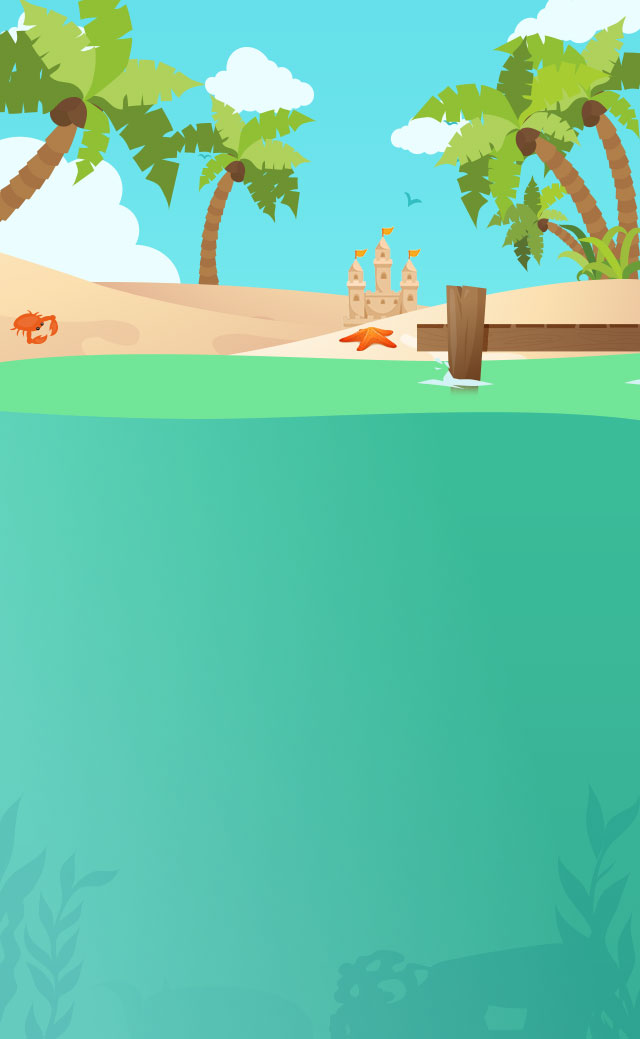
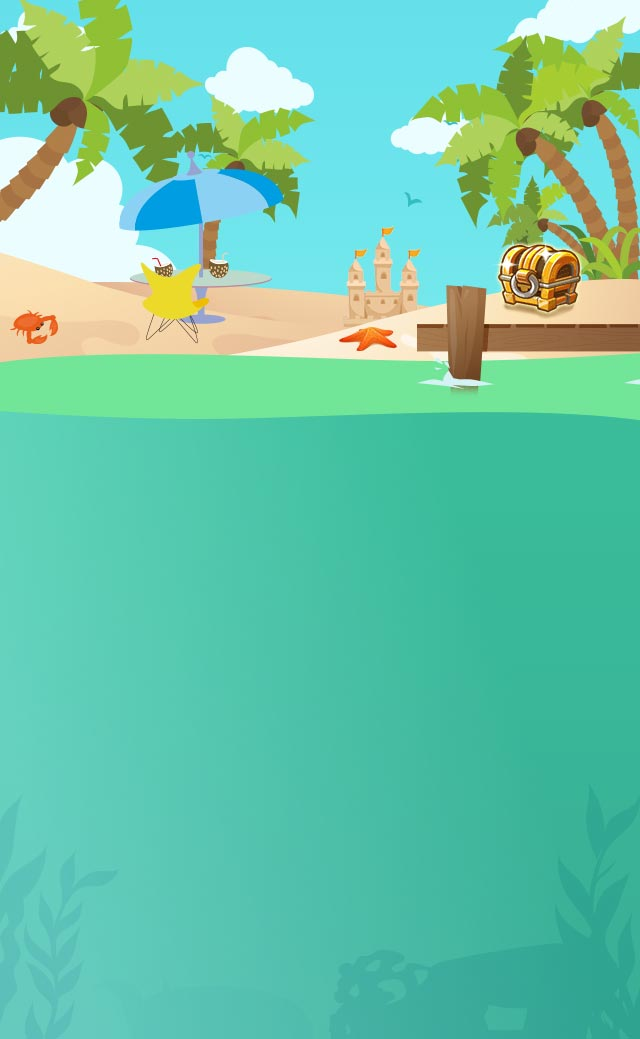
s

diff --git a/js/playState.js b/js/playState.js
@@ -1,0 +1,179 @@
+var Phaser = window.Phaser
+var game = window.game
+
+var textStyle = {
+  font: '20px sans-serif',
+  fill: '#fff'
+}
+
+var playState = {
+  create: function() {
+    this.bg = game.add.image(0, 0, 'bg')
+
+    this.betPop = game.add.group()
+    this.betPopBg = game.add.sprite(53, 650, 'bet_pop')
+    this.betPop1000Coin = game.add.sprite(77, 670, 'bet_1000')
+    this.betPop500Coin = game.add.sprite(77, 715, 'bet_100_200_500')
+    this.betPop200Coin = game.add.sprite(77, 760, 'bet_100_200_500')
+    this.betPop100Coin = game.add.sprite(77, 805, 'bet_100_200_500')
+    this.betPop50Coin = game.add.sprite(77, 845, 'bet_10_50')
+    this.betPop10Coin = game.add.sprite(77, 885, 'bet_10_50')
+
+    this.betPop1000Text = game.add.text(0, 0, '1000', textStyle)
+    this.betPop500Text = game.add.text(0, 0, '500', textStyle)
+    this.betPop200Text = game.add.text(0, 0, '200', textStyle)
+    this.betPop100Text = game.add.text(0, 0, '100', textStyle)
+    this.betPop50Text = game.add.text(0, 0, '50', textStyle)
+    this.betPop10Text = game.add.text(0, 0, '10', textStyle)
+
+    this.betPop1000Text.setTextBounds(115, 670, 70, 20)
+    this.betPop500Text.setTextBounds(115, 715, 70, 20)
+    this.betPop200Text.setTextBounds(115, 760, 70, 20)
+    this.betPop100Text.setTextBounds(115, 805, 70, 20)
+    this.betPop50Text.setTextBounds(115, 845, 70, 20)
+    this.betPop10Text.setTextBounds(115, 885, 70, 20)
+
+    this.betPop1000Text.inputEnabled = true
+    this.betPop500Text.inputEnabled = true
+    this.betPop200Text.inputEnabled = true
+    this.betPop100Text.inputEnabled = true
+    this.betPop50Text.inputEnabled = true
+    this.betPop10Text.inputEnabled = true
+
+    this.betPop1000Text.events.onInputDown.add(this._changeBet.bind(this, 1000), this)
+    this.betPop500Text.events.onInputDown.add(this._changeBet.bind(this, 500), this)
+    this.betPop200Text.events.onInputDown.add(this._changeBet.bind(this, 200), this)
+    this.betPop100Text.events.onInputDown.add(this._changeBet.bind(this, 100), this)
+    this.betPop50Text.events.onInputDown.add(this._changeBet.bind(this, 50), this)
+    this.betPop10Text.events.onInputDown.add(this._changeBet.bind(this, 10), this)
+
+    this.betPop.add(this.betPopBg)
+    this.betPop.add(this.betPop1000Coin)
+    this.betPop.add(this.betPop500Coin)
+    this.betPop.add(this.betPop200Coin)
+    this.betPop.add(this.betPop100Coin)
+    this.betPop.add(this.betPop50Coin)
+    this.betPop.add(this.betPop10Coin)
+    this.betPop.add(this.betPop1000Text)
+    this.betPop.add(this.betPop500Text)
+    this.betPop.add(this.betPop200Text)
+    this.betPop.add(this.betPop100Text)
+    this.betPop.add(this.betPop50Text)
+    this.betPop.add(this.betPop10Text)
+    this.betPop.y = 270
+
+    this.woodTable = game.add.image(0, game.world.height, 'wood_table')
+    this.woodTable.anchor.set(0, 1)
+
+    this.throwBtn = game.add.sprite(game.world.centerX, game.world.height - 15, 'throw_btn')
+    this.throwBtn.anchor.set(0.5, 1)
+    this.throwBtn.animations.add('push')
+    this.throwBtn.inputEnabled = true
+    this.throwBtn.events.onInputDown.add(this._throwBtnDown, this)
+    this.throwBtn.events.onInputUp.add(this._throwBtnUp, this)
+
+    this.notchBet = game.add.image(35, 942, 'notch_bet')
+    this.notchBet.inputEnabled = true
+    this.notchBet.events.onInputDown.add(this._notchBetDown, this)
+    this.notchBetText = game.add.text(92, 959, this._currentBet, textStyle)
+
+    this.notchWin = game.add.image(430, 942, 'notch_win')
+    this.notchWinText = game.add.text(483, 959, '赢得: ' + this._currentWin, textStyle)
+
+    this.fishPole = game.add.sprite(game.world.width, 136, 'fish_pole')
+    this.fishPole.anchor.set(1, 0)
+
+    this.jackpot = game.add.image(420, 100, 'jackpot')
+    this.jackpotText = game.add.text(0, 0, this._jackpot, {
+      fontSize: '32px',
+      fill: '#F8F042',
+      boundsAlignH: 'center',
+      boundsAlignV: 'middle'
+    })
+    this.jackpotText.setShadow(3, 3, 'rgba(0,0,0,0.5)', 5)
+    this.jackpotText.setTextBounds(440, 168, 170, 32)
+
+
+    this.currentCoin = game.add.image(110, 20, 'current_coin')
+    this.currentCoinText = game.add.text(0, 0, this._currentCoin, {
+      fontSize: '20px',
+      fill: '#fff',
+      boundsAlignH: 'center',
+      boundsAlignV: 'middle'
+    })
+    this.currentCoinText.setTextBounds(172, 35 ,109, 44)
+
+    this.luckyValue = game.add.image(30, 70, 'lucky_value')
+    this.luckyValuePro = game.add.image(103, 100, 'lucky_value_p')
+
+    this.user = game.add.image(10, 10, 'user')
+    this.userName = game.add.text(0, 0, '用户名', {
+      fontSize: '12px',
+      fill: '#fff',
+      boundsAlignH: 'center',
+      boundsAlignV: 'middle'
+    })
+    this.userName.setTextBounds(10, 70, 85, 24)
+
+    this.fishCount = game.add.sprite(0, 285, 'fish_count')
+    this.fishCountText = game.add.text(95, 265, this._fishCount, {
+      fill: '#fff',
+      stroke: '#003248',
+      strokeThickness: 4,
+      fontSize: 64
+    })
+    this.fishCountText.setShadow(2, 2, 'rgba(6,68,142,0.7)', 1)
+
+    this.fishScoreText = game.add.text(15, 180, '+ ' + this._fishScore, {
+      fill: '#fff',
+      stroke: '#003248',
+      strokeThickness: 4,
+      fontSize: 50
+    })
+    this.fishScoreText.setShadow(2, 2, 'rgba(6,68,142,0.7)', 1)
+
+    this.ddd = new Phaser.Rectangle(172, 35 ,109, 44)
+  },
+
+  update: function() {
+  },
+
+  render: function() {
+    // game.debug.geom(this.ddd,'#0fffff');
+  },
+
+  _fishScore: 20,
+  _fishCount: 2,
+  _currentCoin: 88888888,
+  _jackpot: 12345678,
+  _currentBet: 100,
+  _currentWin: 0,
+  _changeBet: function(v) {
+    this._currentBet = v
+    this.notchBetText.setText(v)
+    game.add.tween(this.betPop.position).to({
+      y: 270
+    }, 500, Phaser.Easing.Back.Out, true)
+  },
+
+  _throwBtnDown: function() {
+    this.throwBtn.animations.frame = 1
+  },
+
+  _throwBtnUp: function() {
+    this.throwBtn.animations.frame = 0
+  },
+
+  _notchBetDown: function() {
+    // toggle bet pop
+    var y = this.betPop.y
+    var nY = 0
+
+    if (y === 0) {
+      nY = 270
+    }
+    game.add.tween(this.betPop.position).to({
+      y: nY
+    }, 500, Phaser.Easing.Back.Out, true)
+  }
+}

diff --git a/js/loadState.js b/js/loadState.js
@@ -1,0 +1,27 @@
+var game = window.game
+
+var loadState = {
+  preload: function() {
+    game.load.image('bet_1000', 'images/bet_1000.png')
+    game.load.image('bet_100_200_500', 'images/bet_100_200_500.png')
+    game.load.image('bet_10_50', 'images/bet_10_50.png')
+    game.load.image('bet_pop', 'images/bet_pop.png')
+    game.load.image('bg', 'images/bg.jpg')
+    game.load.image('current_coin', 'images/current_coin.png')
+    game.load.image('fish_count', 'images/fish_count.png')
+    game.load.image('fish_pole', 'images/fish_pole.png')
+    game.load.image('jackpot', 'images/jackpot.png')
+    game.load.image('lucky_value', 'images/lucky_value.png')
+    game.load.image('lucky_value_p', 'images/lucky_value_p.png')
+    game.load.image('notch_bet', 'images/notch_bet.png')
+    game.load.image('notch_win', 'images/notch_win.png')
+    game.load.image('user', 'images/user.png')
+    game.load.image('wood_table', 'images/wood_table.png')
+    game.load.spritesheet('f1', 'images/f1.png', 200, 111, 3);
+    game.load.spritesheet('throw_btn', 'images/throw_btn.png', 180, 130, 2)
+  },
+
+  create: function() {
+    game.state.start('play')
+  }
+}

diff --git a/index.html b/index.html
@@ -5,9 +5,24 @@
   <meta http-equiv="X-UA-Compatible" content="IE=edge">
   <meta name="viewport" content="width=device-width, initial-scale=1, maximum-scale=1, user-scalable=no">
   <title>Title</title>
+  <style>
+    html, body, #root {
+      height: 100%;
+      overflow: hidden;
+    }
+    body {
+      margin: 0;
+      padding: 0;
+    }
+  </style>
+  <script src="js/phaser.min.js"></script>
+  <script src="js/bootState.js"></script>
+  <script src="js/loadState.js"></script>
+  <script src="js/playState.js"></script>
+  <script src="js/index.js"></script>
 </head>
 <body>
+  <div id="root"></div>
   
-  <script src="js/phaser.min.js"></script>
 </body>
 </html>

diff --git a/js/bootState.js b/js/bootState.js
@@ -1,0 +1,12 @@
+var Phaser = window.Phaser
+var game = window.game
+
+var bootState = {
+  create: function() {
+    game.stage.backgroundColor = '#ffffff';
+    game.scale.scaleMode = Phaser.ScaleManager.SHOW_ALL;
+    game.scale.pageAlignHorizontally = true;
+    game.scale.pageAlignVertically = true;
+    game.state.start('load');
+  }
+}

diff --git a/js/index.js b/js/index.js
@@ -1,0 +1,7 @@
+var Phaser = window.Phaser
+var game = new Phaser.Game(640, 1029, Phaser.CANVAS, 'root')
+game.state.add('boot', window.bootState)
+game.state.add('load', window.loadState)
+game.state.add('play', window.playState)
+
+game.state.start('boot')
